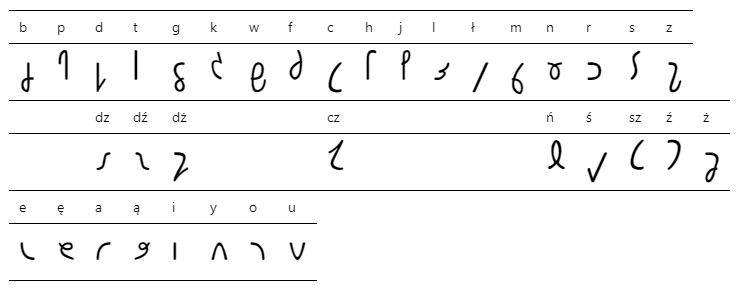
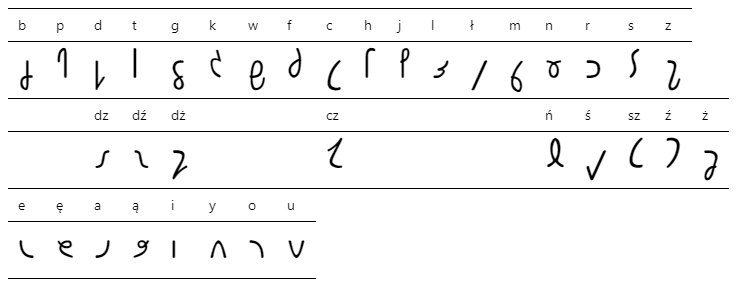
Zmiana alfabetu żeby a było podobne do ą

diff --git a/a/quikscript.html b/a/quikscript.html
@@ -1,7 +1,7 @@
 <!DOCTYPE html><html lang=en> <head><meta charset=UTF-8><!--[if IE]><meta http-equiv="X-UA-Compatible" content="IE=edge"><![endif]--><meta name=viewport content="width=device-width, initial-scale=1.0"><meta name=generator content="Asciidoctor 1.5.7.1"><meta name=author content="Jonasz Aleszkiewicz"><title>Polski Quikscript</title><link rel=stylesheet href="https://fonts.googleapis.com/css?family=Open+Sans:300,300italic,400,400italic,600,600italic%7CNoto+Serif:400,400italic,700,700italic%7CDroid+Sans+Mono:400,700"><link rel=stylesheet href=./asciidoctor.css><link rel=stylesheet href=./coderay-asciidoctor.css></head> <body class=article> <div id=header> <h1>Polski Quikscript</h1> <div class=details> <span id=author class=author>Jonasz Aleszkiewicz</span><br> <span id=revdate>2019-02-16</span> </div> </div> <div id=content> <div id=preamble> <div class=sectionbody> <div class=paragraph> <p>Inspirowany oryginalnym angielskim <a href=https://www.omniglot.com/pdfs/quikscriptmanual.pdf>Quikscriptem</a> (<a href=http://home.earthlink.net/~sbartok1632/quik/qprojects/qfonts.htm>czcionka</a>), z przeszuflowanymi literami żeby się nadawał do polskomowy.</p> </div> <div class=paragraph> <div class=title>Alfabet przystosowany do j. polskiego</div> <p><span class=image><img src=quikscript.png alt=quikscript></span></p> </div> </div> </div> <div class=sect1> <h2 id=_technikalia>Technikalia</h2> <div class=sectionbody> <div class=listingblock> <div class=title>Kod użyty do wygenerowania tej tabelki</div> <div class=content> <pre class="CodeRay highlight"><code data-lang=python><span class=keyword>import</span> <span class=include>collections</span>
 
 source = <span class=predefined>tuple</span>(<span class=string><span class=delimiter>&quot;</span><span class=content>bpdtgkwfchjlłmnrsz</span><span class=delimiter>&quot;</span></span>) + (<span class=string><span class=delimiter>'</span><span class=content>dz</span><span class=delimiter>'</span></span>, <span class=string><span class=delimiter>'</span><span class=content>dź</span><span class=delimiter>'</span></span>, <span class=string><span class=delimiter>'</span><span class=content>dż</span><span class=delimiter>'</span></span>, <span class=string><span class=delimiter>'</span><span class=content>cz</span><span class=delimiter>'</span></span>, <span class=string><span class=delimiter>'</span><span class=content>ń</span><span class=delimiter>'</span></span>, <span class=string><span class=delimiter>'</span><span class=content>ś</span><span class=delimiter>'</span></span>, <span class=string><span class=delimiter>'</span><span class=content>sz</span><span class=delimiter>'</span></span>, <span class=string><span class=delimiter>'</span><span class=content>ź</span><span class=delimiter>'</span></span>, <span class=string><span class=delimiter>'</span><span class=content>ż</span><span class=delimiter>'</span></span>) + <span class=predefined>tuple</span>(<span class=string><span class=delimiter>&quot;</span><span class=content>eęaąiyou</span><span class=delimiter>&quot;</span></span>)
-target = <span class=predefined>tuple</span>(<span class=string><span class=delimiter>&quot;</span><span class=content>bpdtgkvfHhjlwmnrszyYJcN`STZeEaFiMoU</span><span class=delimiter>&quot;</span></span>)
+target = <span class=predefined>tuple</span>(<span class=string><span class=delimiter>&quot;</span><span class=content>bpdtgkvfHhjlwmnrszyYJcN`STZeEAFiMoU</span><span class=delimiter>&quot;</span></span>)
 mapping = collections.defaultdict(<span class=keyword>lambda</span> x: x)
 mapping.update(<span class=predefined>zip</span>(source, target))
 
@@ -19,5 +19,5 @@ print(<span class=string><span class=delimiter>'</span><span class=char>\n</span
 <span class=tag>&lt;tr&gt;</span><span class=tag>&lt;td&gt;</span><span class=tag>&lt;/td&gt;</span><span class=tag>&lt;td&gt;</span><span class=tag>&lt;/td&gt;</span><span class=tag>&lt;td&gt;</span>dz<span class=tag>&lt;/td&gt;</span><span class=tag>&lt;td&gt;</span>dź<span class=tag>&lt;/td&gt;</span><span class=tag>&lt;td&gt;</span>dż<span class=tag>&lt;/td&gt;</span><span class=tag>&lt;td&gt;</span><span class=tag>&lt;/td&gt;</span><span class=tag>&lt;td&gt;</span><span class=tag>&lt;/td&gt;</span><span class=tag>&lt;td&gt;</span><span class=tag>&lt;/td&gt;</span><span class=tag>&lt;td&gt;</span>cz<span class=tag>&lt;/td&gt;</span><span class=tag>&lt;td&gt;</span><span class=tag>&lt;/td&gt;</span><span class=tag>&lt;td&gt;</span><span class=tag>&lt;/td&gt;</span><span class=tag>&lt;td&gt;</span><span class=tag>&lt;/td&gt;</span><span class=tag>&lt;td&gt;</span><span class=tag>&lt;/td&gt;</span><span class=tag>&lt;td&gt;</span><span class=tag>&lt;/td&gt;</span><span class=tag>&lt;td&gt;</span>ń<span class=tag>&lt;/td&gt;</span><span class=tag>&lt;td&gt;</span>ś<span class=tag>&lt;/td&gt;</span><span class=tag>&lt;td&gt;</span>sz<span class=tag>&lt;/td&gt;</span><span class=tag>&lt;td&gt;</span>ź<span class=tag>&lt;/td&gt;</span><span class=tag>&lt;td&gt;</span>ż<span class=tag>&lt;/td&gt;</span><span class=tag>&lt;/tr&gt;</span>
 <span class=tag>&lt;tr</span> <span class=attribute-name>class</span>=<span class=string><span class=delimiter>'</span><span class=content>font</span><span class=delimiter>'</span></span><span class=tag>&gt;</span><span class=tag>&lt;td&gt;</span><span class=tag>&lt;/td&gt;</span><span class=tag>&lt;td&gt;</span><span class=tag>&lt;/td&gt;</span><span class=tag>&lt;td&gt;</span>y<span class=tag>&lt;/td&gt;</span><span class=tag>&lt;td&gt;</span>Y<span class=tag>&lt;/td&gt;</span><span class=tag>&lt;td&gt;</span>J<span class=tag>&lt;/td&gt;</span><span class=tag>&lt;td&gt;</span><span class=tag>&lt;/td&gt;</span><span class=tag>&lt;td&gt;</span><span class=tag>&lt;/td&gt;</span><span class=tag>&lt;td&gt;</span><span class=tag>&lt;/td&gt;</span><span class=tag>&lt;td&gt;</span>c<span class=tag>&lt;/td&gt;</span><span class=tag>&lt;td&gt;</span><span class=tag>&lt;/td&gt;</span><span class=tag>&lt;td&gt;</span><span class=tag>&lt;/td&gt;</span><span class=tag>&lt;td&gt;</span><span class=tag>&lt;/td&gt;</span><span class=tag>&lt;td&gt;</span><span class=tag>&lt;/td&gt;</span><span class=tag>&lt;td&gt;</span><span class=tag>&lt;/td&gt;</span><span class=tag>&lt;td&gt;</span>N<span class=tag>&lt;/td&gt;</span><span class=tag>&lt;td&gt;</span>`<span class=tag>&lt;/td&gt;</span><span class=tag>&lt;td&gt;</span>S<span class=tag>&lt;/td&gt;</span><span class=tag>&lt;td&gt;</span>T<span class=tag>&lt;/td&gt;</span><span class=tag>&lt;td&gt;</span>Z<span class=tag>&lt;/td&gt;</span><span class=tag>&lt;/tr&gt;</span>
 <span class=tag>&lt;tr&gt;</span><span class=tag>&lt;td&gt;</span>e<span class=tag>&lt;/td&gt;</span><span class=tag>&lt;td&gt;</span>ę<span class=tag>&lt;/td&gt;</span><span class=tag>&lt;td&gt;</span>a<span class=tag>&lt;/td&gt;</span><span class=tag>&lt;td&gt;</span>ą<span class=tag>&lt;/td&gt;</span><span class=tag>&lt;td&gt;</span>i<span class=tag>&lt;/td&gt;</span><span class=tag>&lt;td&gt;</span>y<span class=tag>&lt;/td&gt;</span><span class=tag>&lt;td&gt;</span>o<span class=tag>&lt;/td&gt;</span><span class=tag>&lt;td&gt;</span>u<span class=tag>&lt;/td&gt;</span><span class=tag>&lt;/tr&gt;</span>
-<span class=tag>&lt;tr</span> <span class=attribute-name>class</span>=<span class=string><span class=delimiter>'</span><span class=content>font</span><span class=delimiter>'</span></span><span class=tag>&gt;</span><span class=tag>&lt;td&gt;</span>e<span class=tag>&lt;/td&gt;</span><span class=tag>&lt;td&gt;</span>E<span class=tag>&lt;/td&gt;</span><span class=tag>&lt;td&gt;</span>a<span class=tag>&lt;/td&gt;</span><span class=tag>&lt;td&gt;</span>F<span class=tag>&lt;/td&gt;</span><span class=tag>&lt;td&gt;</span>i<span class=tag>&lt;/td&gt;</span><span class=tag>&lt;td&gt;</span>M<span class=tag>&lt;/td&gt;</span><span class=tag>&lt;td&gt;</span>o<span class=tag>&lt;/td&gt;</span><span class=tag>&lt;td&gt;</span>U<span class=tag>&lt;/td&gt;</span><span class=tag>&lt;/tr&gt;</span>
+<span class=tag>&lt;tr</span> <span class=attribute-name>class</span>=<span class=string><span class=delimiter>'</span><span class=content>font</span><span class=delimiter>'</span></span><span class=tag>&gt;</span><span class=tag>&lt;td&gt;</span>e<span class=tag>&lt;/td&gt;</span><span class=tag>&lt;td&gt;</span>E<span class=tag>&lt;/td&gt;</span><span class=tag>&lt;td&gt;</span>A<span class=tag>&lt;/td&gt;</span><span class=tag>&lt;td&gt;</span>F<span class=tag>&lt;/td&gt;</span><span class=tag>&lt;td&gt;</span>i<span class=tag>&lt;/td&gt;</span><span class=tag>&lt;td&gt;</span>M<span class=tag>&lt;/td&gt;</span><span class=tag>&lt;td&gt;</span>o<span class=tag>&lt;/td&gt;</span><span class=tag>&lt;td&gt;</span>U<span class=tag>&lt;/td&gt;</span><span class=tag>&lt;/tr&gt;</span>
 <span class=tag>&lt;/table&gt;</span></code></pre> </div> </div> </div> </div> </div> </body> </html>
